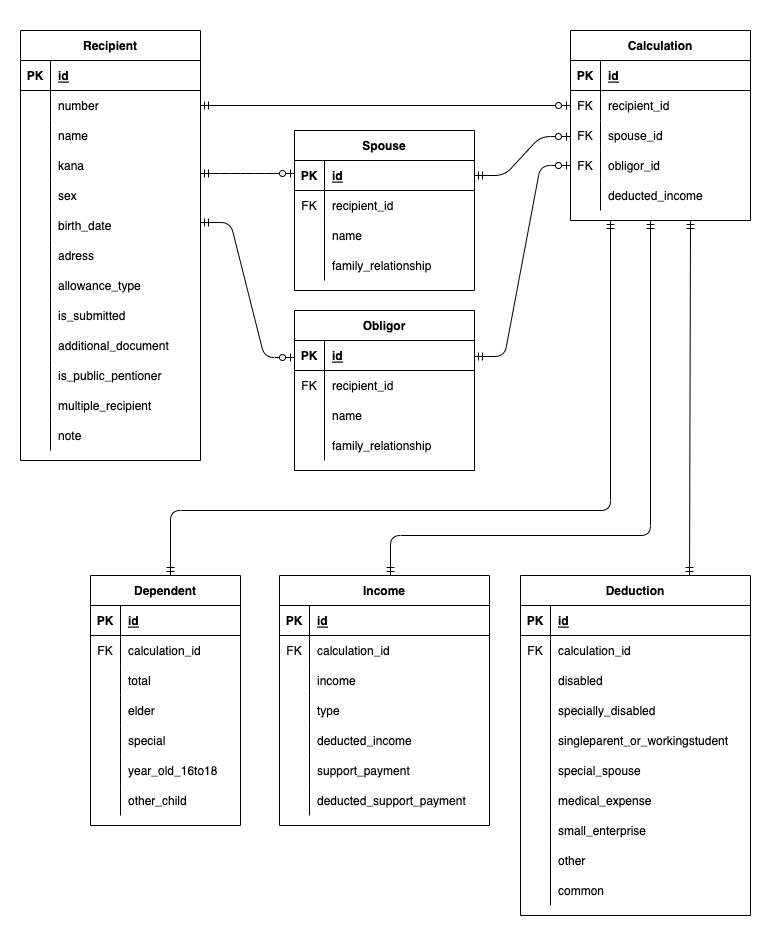
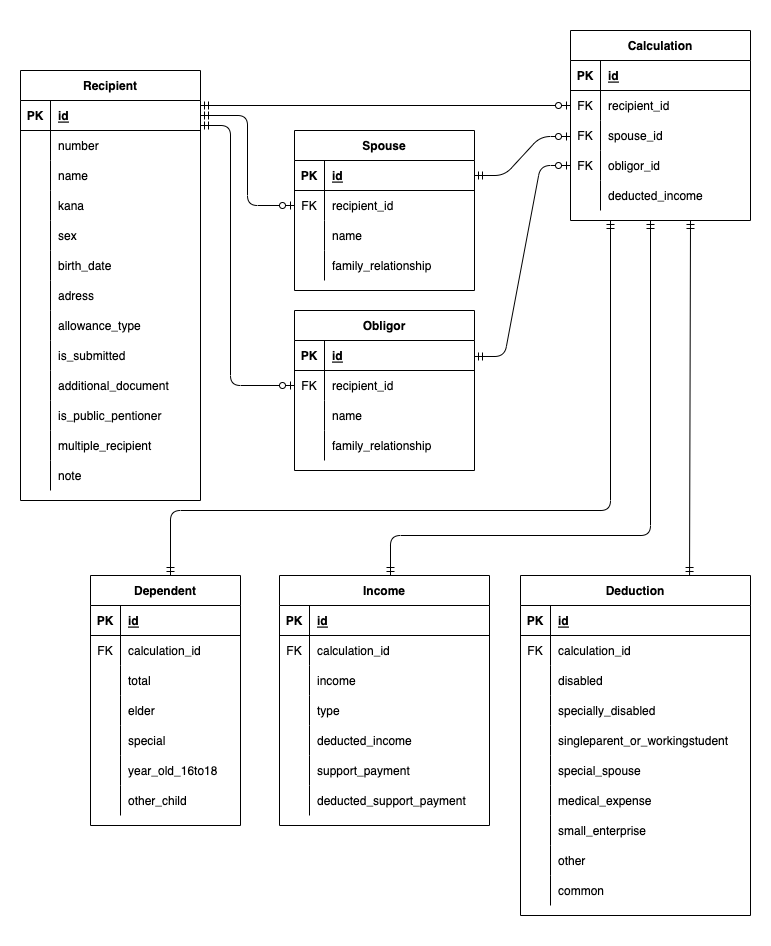
fix:foreign key rekations in er diagram

Changed region(s): [[0.0311, 0.0307, 0.2179, 0.5211], [0.2802, 0.2452, 0.3113, 0.2759]]

diff --git a/README.md b/README.md
@@ -42,7 +42,7 @@ https://child-allowance.com
 
 # Architecture
 ## ERD
-![er](https://user-images.githubusercontent.com/101188604/184528045-b97b0ea5-8d81-465d-991d-13a44ad664d4.png)
+![er](https://user-images.githubusercontent.com/101188604/191504573-e86f2578-05a1-4b81-8f4d-665a75f47951.png)
 ## AWS
 ![aws](https://user-images.githubusercontent.com/101188604/188660011-a446ed8e-b77e-43d6-b9f9-8e7a292625fa.png)
 
